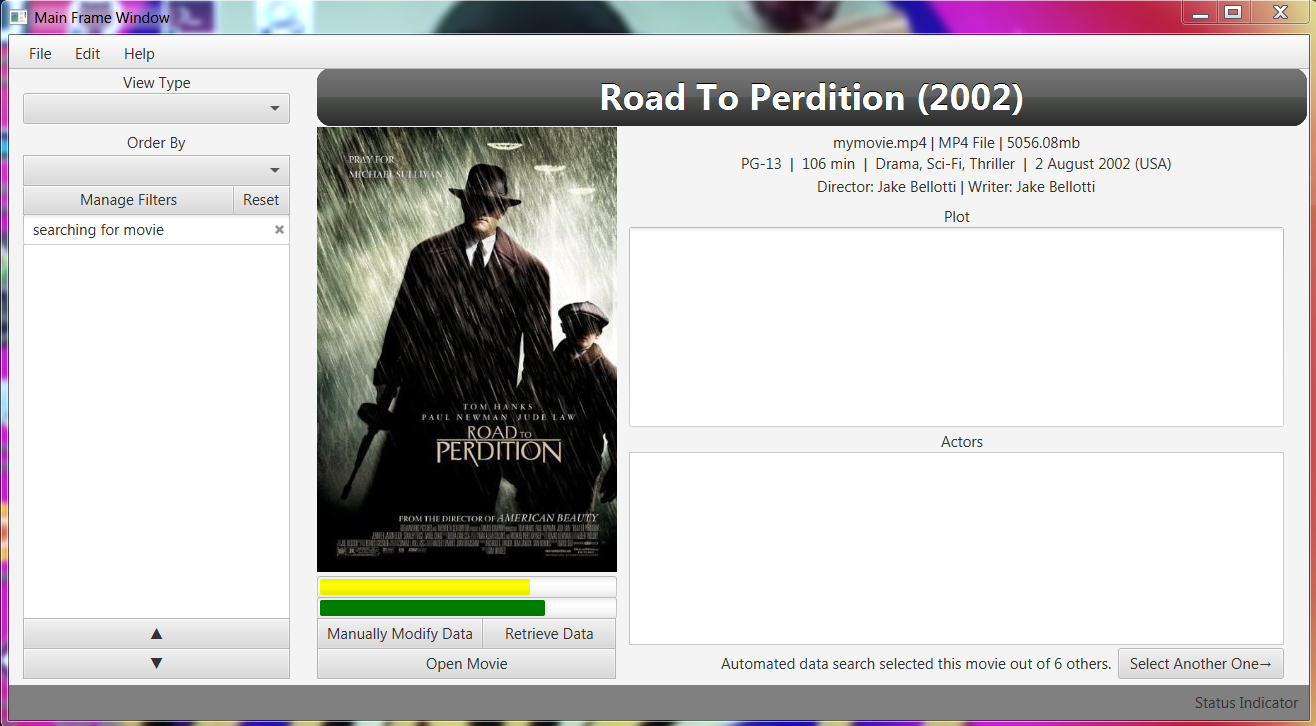
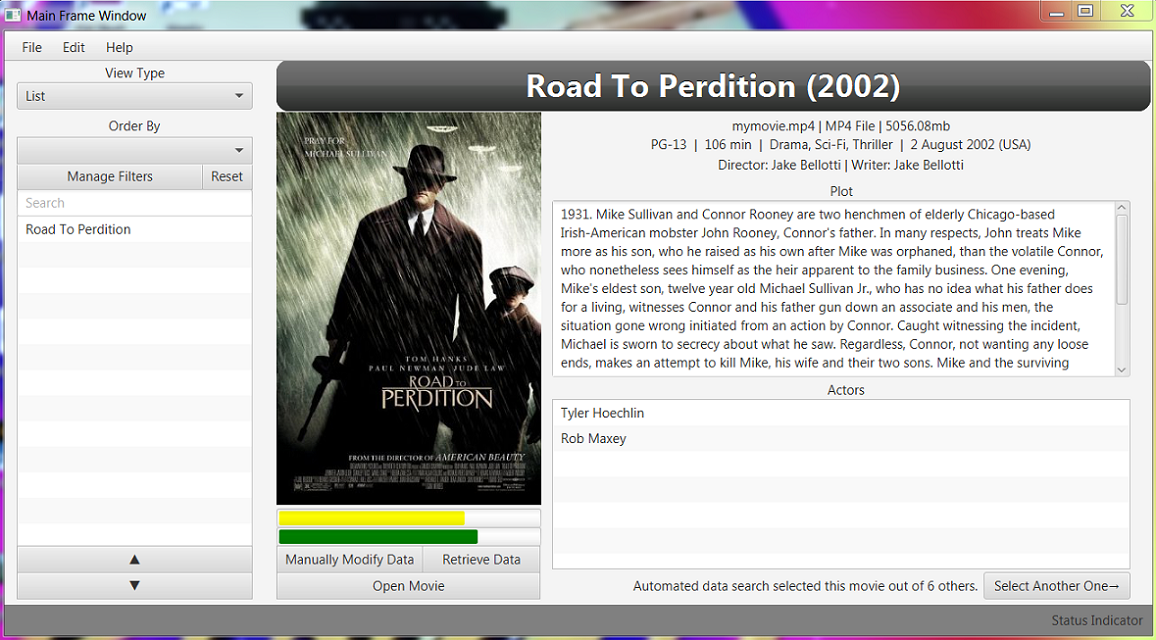
added more images

diff --git a/src/com/jakebellotti/scene/presentation/PresentationViewController.java b/src/com/jakebellotti/scene/presentation/PresentationViewController.java
@@ -5,6 +5,7 @@ import java.io.File;
 import org.controlsfx.control.textfield.TextFields;
 
 import com.jakebellotti.model.MovieFile;
+import com.jakebellotti.model.MovieDefinition;
 import com.jakebellotti.model.MovieListOrderer;
 
 import javafx.fxml.FXML;
@@ -17,7 +18,6 @@ import javafx.scene.control.TextField;
 import javafx.scene.image.Image;
 import javafx.scene.image.ImageView;
 import javafx.scene.layout.AnchorPane;
-import javafx.scene.layout.StackPane;
 
 /**
  * 
@@ -37,7 +37,7 @@ public class PresentationViewController {
 	 * example text with a thumbnail or just text.
 	 */
 	@FXML
-	private ComboBox<?> viewTypeComboBox;
+	private ComboBox<String> viewTypeComboBox;
 	/**
 	 * Where the user can type in a search query to further filter the movies.
 	 */
@@ -134,6 +134,16 @@ public class PresentationViewController {
 		File file = new File("./data/testimg.jpg");
 		Image image = new Image(file.toURI().toString());
 		moviePoster.setImage(image);
+		
+		this.movieList.getItems().add(new MovieFile(file, new MovieDefinition("Road To Perdition", 1998, "", "", "", "",
+				"", "", "", "", "", "", "",
+				"", 100, 6.7, "", "")));
+		this.moviePlotTextArea.setText("1931. Mike Sullivan and Connor Rooney are two henchmen of elderly Chicago-based Irish-American mobster John Rooney, Connor's father. In many respects, John treats Mike more as his son, who he raised as his own after Mike was orphaned, than the volatile Connor, who nonetheless sees himself as the heir apparent to the family business. One evening, Mike's eldest son, twelve year old Michael Sullivan Jr., who has no idea what his father does for a living, witnesses Connor and his father gun down an associate and his men, the situation gone wrong initiated from an action by Connor. Caught witnessing the incident, Michael is sworn to secrecy about what he saw. Regardless, Connor, not wanting any loose ends, makes an attempt to kill Mike, his wife and their two sons. Mike and the surviving members of his family know that they need to go on the run as Connor, who has gone into hiding, will be protected through mob loyalty, especially by John, who cannot turn on his own flesh and blood. Still, Mike has to figure out a way for retribution for what Connor did, while still protecting him and his family, not only from Connor, but from John and his fellow associates. Through it all, Mike wants those in his family that had no say in what he chose as a living, to have some redemption for their eternal souls.");
+		this.movieActorListView.getItems().add("Tyler Hoechlin");
+		this.movieActorListView.getItems().add("Rob Maxey");
+		this.viewTypeComboBox.getItems().add("List");
+		
+		
 		setupSearchTextField();
 	}
 
@@ -144,6 +154,7 @@ public class PresentationViewController {
 		newSearchTextField.setLayoutX(this.searchTextField.getLayoutX());
 		newSearchTextField.setLayoutY(this.searchTextField.getLayoutY());
 		newSearchTextField.setPrefWidth(this.searchTextField.getPrefWidth());
+		newSearchTextField.setPromptText("Search");
 
 		this.searchTextField = newSearchTextField;
 		this.root.getChildren().add(this.searchTextField);
